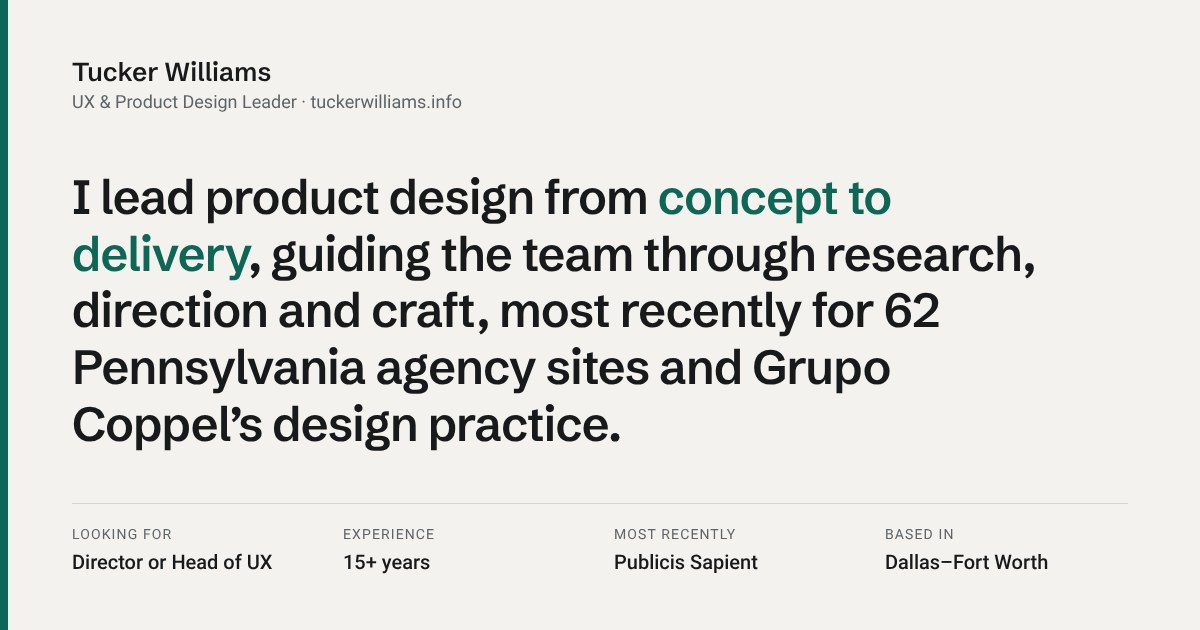
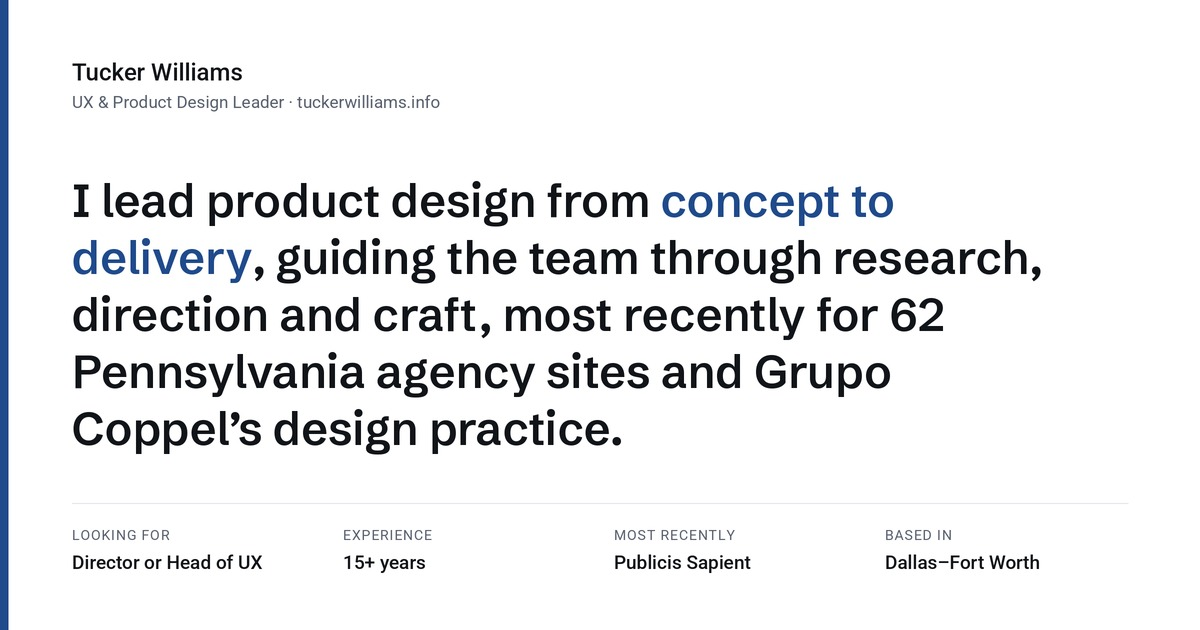
Regenerate link-preview image in navy
Adds tools/og/build_og.py so the image can be rebuilt from the palette, and bumps the og:image version so link previews refresh.

Claude-Session: https://claude.ai/code/session_01P9QZ9xMCHPNb3FScZWpDKy

diff --git a/index.html b/index.html
@@ -11,7 +11,7 @@
 <meta property="og:title" content="Tucker Williams · UX &amp; Product Design Leader">
 <meta property="og:description" content="I lead product design from concept to delivery, guiding the team through research, direction and craft, most recently for 62 Pennsylvania agency sites and Grupo Coppel’s design practice.">
 <meta property="og:url" content="https://tuckerwilliams.info/">
-<meta property="og:image" content="https://tuckerwilliams.info/assets/img/og.jpg?v=3">
+<meta property="og:image" content="https://tuckerwilliams.info/assets/img/og.jpg?v=4">
 <meta property="og:image:width" content="1200">
 <meta property="og:image:height" content="630">
 <meta property="og:image:alt" content="Tucker Williams, UX and Product Design Leader: I lead product design from concept to delivery.">

diff --git a/work/visualization-tool/index.html b/work/visualization-tool/index.html
@@ -11,7 +11,7 @@
 <meta property="og:title" content="Visualization tool case study · Tucker Williams">
 <meta property="og:description" content="A tool for contractors to show homeowners real roofing and siding on their house, then turn the choice into an order. A case study by Tucker Williams.">
 <meta property="og:url" content="https://tuckerwilliams.info/work/visualization-tool/">
-<meta property="og:image" content="https://tuckerwilliams.info/assets/img/og.jpg?v=3">
+<meta property="og:image" content="https://tuckerwilliams.info/assets/img/og.jpg?v=4">
 <meta property="og:image:width" content="1200">
 <meta property="og:image:height" content="630">
 <meta property="og:image:alt" content="Tucker Williams, UX and Product Design Leader: I lead product design from concept to delivery.">

diff --git a/work/pa-gov/index.html b/work/pa-gov/index.html
@@ -11,7 +11,7 @@
 <meta property="og:title" content="PA.gov case study · Tucker Williams">
 <meta property="og:description" content="How 62 Pennsylvania state sites came to share one structure and one search. A case study by Tucker Williams, UX and Product Design Leader.">
 <meta property="og:url" content="https://tuckerwilliams.info/work/pa-gov/">
-<meta property="og:image" content="https://tuckerwilliams.info/assets/img/og.jpg?v=3">
+<meta property="og:image" content="https://tuckerwilliams.info/assets/img/og.jpg?v=4">
 <meta property="og:image:width" content="1200">
 <meta property="og:image:height" content="630">
 <meta property="og:image:alt" content="Tucker Williams, UX and Product Design Leader: I lead product design from concept to delivery.">

diff --git a/work/coppel/index.html b/work/coppel/index.html
@@ -11,7 +11,7 @@
 <meta property="og:title" content="Grupo Coppel case study · Tucker Williams">
 <meta property="og:description" content="How a 35-person design organization raised its bar. A case study by Tucker Williams, UX and Product Design Leader.">
 <meta property="og:url" content="https://tuckerwilliams.info/work/coppel/">
-<meta property="og:image" content="https://tuckerwilliams.info/assets/img/og.jpg?v=3">
+<meta property="og:image" content="https://tuckerwilliams.info/assets/img/og.jpg?v=4">
 <meta property="og:image:width" content="1200">
 <meta property="og:image:height" content="630">
 <meta property="og:image:alt" content="Tucker Williams, UX and Product Design Leader: I lead product design from concept to delivery.">

diff --git a/tools/og/build_og.py b/tools/og/build_og.py
@@ -1,0 +1,57 @@
+"""Builds assets/img/og.jpg, the 1200x630 link-preview image, from the site's palette.
+Run from the repo root: python3 tools/og/build_og.py"""
+import os
+from PIL import Image, ImageDraw, ImageFont
+
+ROOT = os.path.dirname(os.path.dirname(os.path.dirname(os.path.abspath(__file__))))
+FONTS = os.path.join(ROOT, 'tools', 'pa-video', 'fonts')
+S = 2  # draw at 2x, then downsample for clean edges
+
+BG, INK, MUTED, LINE, ACCENT = '#FFFFFF', '#111418', '#596170', '#E2E5EA', '#1F4A8C'
+
+def font(kind, size, weight):
+    name = 'SchibstedGrotesk%5Bwght%5D.ttf' if kind == 'display' else 'Roboto%5Bwdth,wght%5D.ttf'
+    f = ImageFont.truetype(os.path.join(FONTS, name), size * S)
+    axes = f.get_variation_axes()
+    f.set_variation_by_axes([weight if a.get('name', b'') in (b'Weight', 'Weight') else a['default'] for a in axes])
+    return f
+
+W, H, M = 1200, 630, 72
+im = Image.new('RGB', (W * S, H * S), BG)
+d = ImageDraw.Draw(im)
+d.rectangle([0, 0, 8 * S, H * S], fill=ACCENT)
+
+d.text((M * S, 58 * S), 'Tucker Williams', font=font('body', 24, 500), fill=INK)
+d.text((M * S, 92 * S), 'UX & Product Design Leader · tuckerwilliams.info', font=font('body', 17, 400), fill=MUTED)
+
+# Headline, with the first phrase in the accent color. Words are laid out one at a time so color can change mid-line.
+hf = font('display', 46, 600)
+words = [(w, ACCENT) for w in 'concept to delivery,'.split()]
+words = [(w, INK) for w in 'I lead product design from'.split()] + words + \
+        [(w, INK) for w in 'guiding the team through research, direction and craft, most recently for 62 Pennsylvania agency sites and Grupo Coppel’s design practice.'.split()]
+x, y, maxx, lh, sp = M * S, 172 * S, (W - M - 40) * S, 57 * S, d.textlength(' ', font=hf)
+for w, col in words:
+    if w == 'delivery,':  # keep the comma in ink, as on the site
+        parts = [('delivery', ACCENT), (',', INK)]
+    else:
+        parts = [(w, col)]
+    wl = sum(d.textlength(t, font=hf) for t, _ in parts)
+    if x + wl > maxx and x > M * S:
+        x, y = M * S, y + lh
+    for t, c in parts:
+        d.text((x, y), t, font=hf, fill=c); x += d.textlength(t, font=hf)
+    x += sp
+
+d.rectangle([M * S, 503 * S, (W - M) * S, 504 * S - 1], fill=LINE)
+lf, vf = font('body', 14, 400), font('body', 19, 500)
+facts = [('Looking for', 'Director or Head of UX'), ('Experience', '15+ years'),
+         ('Most recently', 'Publicis Sapient'), ('Based in', 'Dallas–Fort Worth')]
+for i, (k, v) in enumerate(facts):
+    cx = (M + i * 271) * S
+    lx = cx
+    for ch in k.upper():  # light letter-spacing on the labels
+        d.text((lx, 527 * S), ch, font=lf, fill=MUTED); lx += d.textlength(ch, font=lf) + 0.9 * S
+    d.text((cx, 551 * S), v, font=vf, fill=INK)
+
+im.resize((W, H), Image.LANCZOS).save(os.path.join(ROOT, 'assets', 'img', 'og.jpg'), quality=92, optimize=True)
+print('wrote assets/img/og.jpg')
